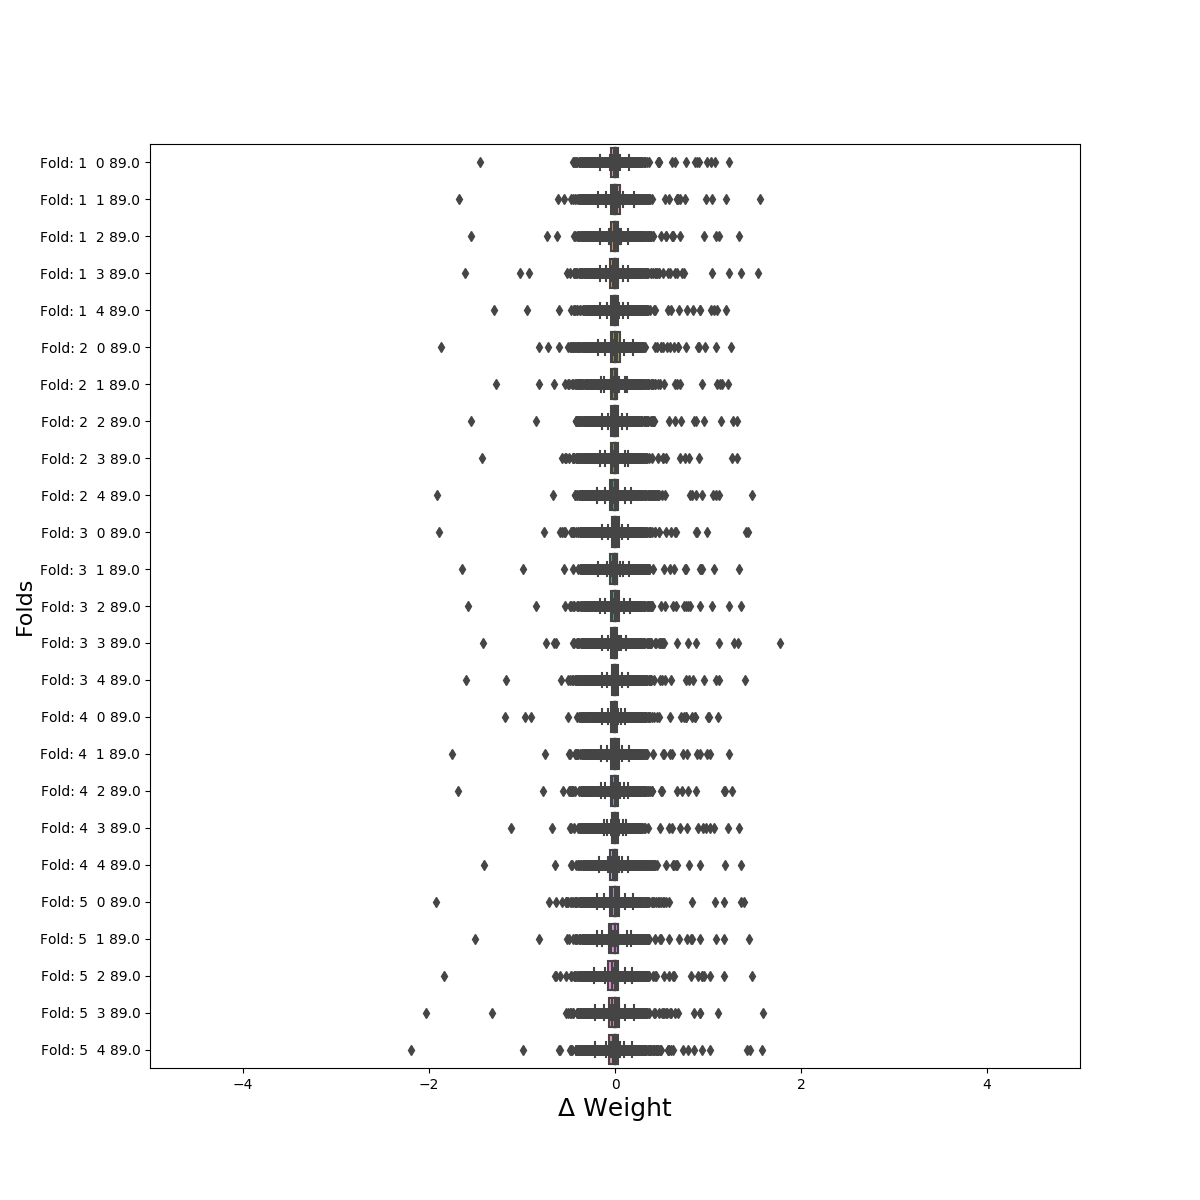
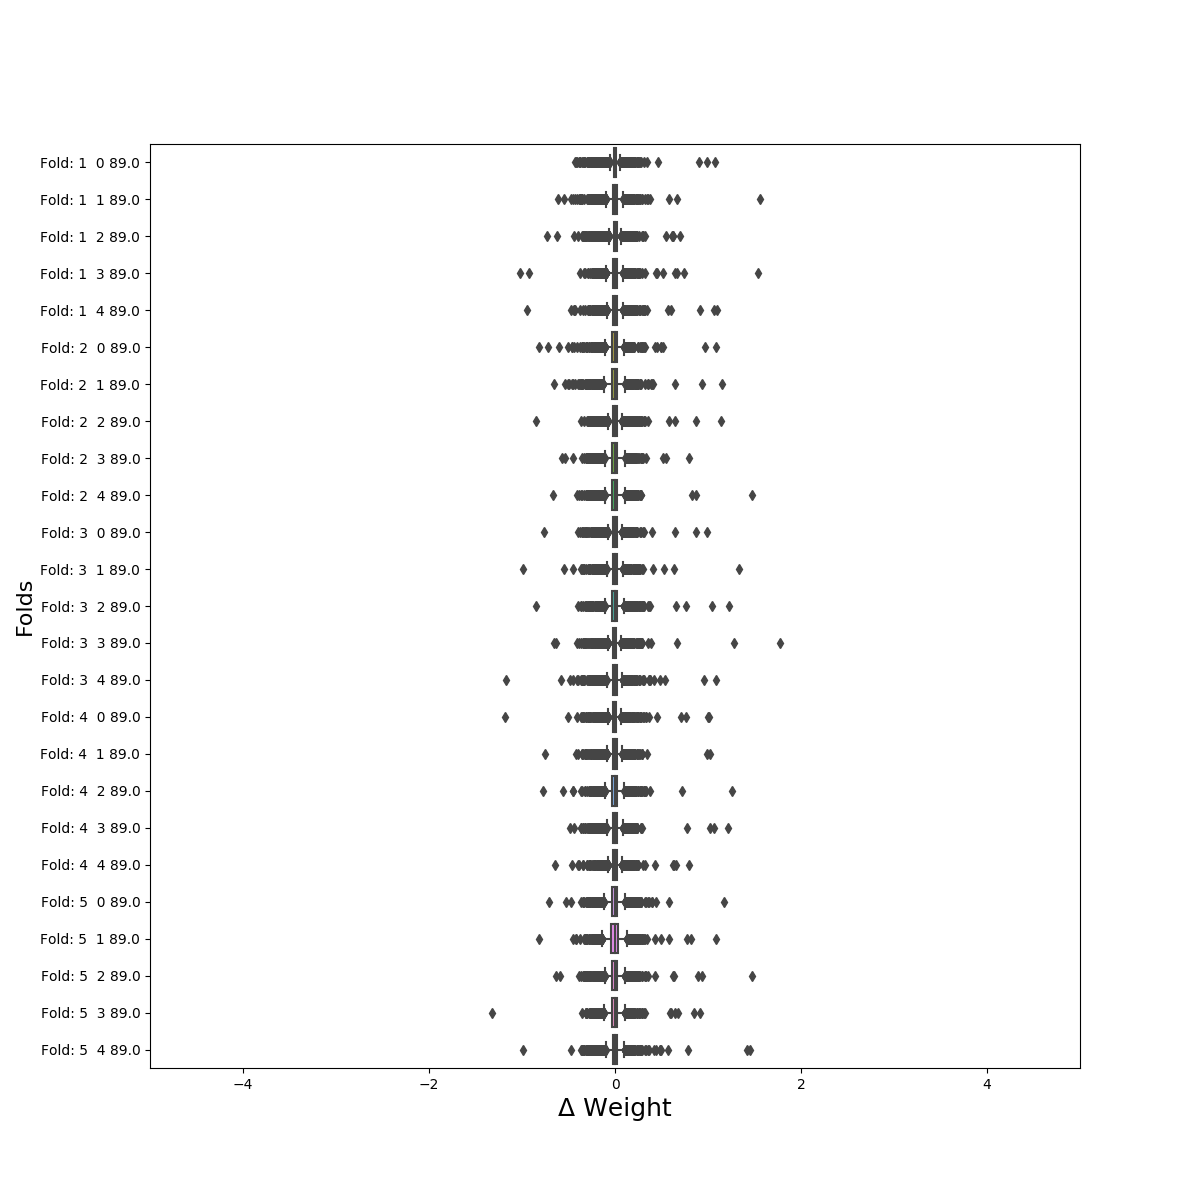
added some graphs updated the way some of them are drawn

diff --git a/bank/bank_comparison.py b/bank/bank_comparison.py
@@ -38,7 +38,6 @@ preprocess = make_column_transformer(
 dataframe = preprocess.fit_transform(features)
 
 def weight_delta(size, main):
-    global num_param
     ans = []
     column_names = []
     for split in range(1,6):
@@ -77,7 +76,7 @@ def weight_delta(size, main):
 
 
     dt = pandas.DataFrame(ans, index=column_names)
-    print(dt, column_names)
+    print(dt)
     return dt.T
 
 def create_figures(size, init):
@@ -102,10 +101,11 @@ def create_figures(size, init):
     sns.boxplot(data=results, whis=1.5, orient='h')
     plt.xticks()
     f.savefig('/home/jstigter/PycharmProjects/ap-research/bank/graphs/boxplot/'+size+'.'+init+'_box.png')
+    f.clear()
 
     f2 = plt.figure(2, figsize=a4_dims)
 
-    plt.xlim([-5,5])
+    plt.xlim([-3,3])
     plt.ylim([0,1])
 
     plt.xlabel('Δ Weight', fontsize=18)
@@ -116,6 +116,7 @@ def create_figures(size, init):
     plt.hist(combined_data, weights=np.zeros_like(np.array(combined_data)) + 1. / len(combined_data), bins=30, edgecolor='black')
 
     f2.savefig('/home/jstigter/PycharmProjects/ap-research/bank/graphs/histogram/'+size+'.'+init+'_hist.png')
+    f2.clear()
 
 create_figures('large', 'he')
 create_figures('large', 'rand_sig')

diff --git a/iris/iris_comparison.py b/iris/iris_comparison.py
@@ -106,10 +106,11 @@ def create_figures(size, init):
     sns.boxplot(data=results, whis=1.5, orient='h')
     plt.xticks()
     f.savefig('/home/jstigter/PycharmProjects/ap-research/iris/graphs/boxplot/'+size+'.'+init+'_box.png')
+    f.clear()
 
     f2 = plt.figure(2, figsize=a4_dims)
 
-    plt.xlim([-5,5])
+    plt.xlim([-3,3])
     plt.ylim([0,1])
 
     plt.xlabel('Δ Weight', fontsize=18)
@@ -120,6 +121,7 @@ def create_figures(size, init):
     plt.hist(combined_data, weights=np.zeros_like(np.array(combined_data)) + 1. / len(combined_data), bins=30, edgecolor='black')
 
     f2.savefig('/home/jstigter/PycharmProjects/ap-research/iris/graphs/histogram/'+size+'.'+init+'_hist.png')
+    f2.clear()
 
 create_figures('large', 'rand_relu')
 create_figures('large', 'he')

diff --git a/titanic/titanic_comparison.py b/titanic/titanic_comparison.py
@@ -101,10 +101,11 @@ def create_figures(size, init):
     sns.boxplot(data=results, whis=1.5, orient='h')
     plt.xticks()
     f.savefig('/home/jstigter/PycharmProjects/ap-research/titanic/graphs/boxplot'+size+'.'+init+'_box.png')
+    f.clear()
 
     f2 = plt.figure(2, figsize=a4_dims)
 
-    plt.xlim([-5,5])
+    plt.xlim([-3,3])
     plt.ylim([0,1])
 
     plt.xlabel('Δ Weight', fontsize=18)
@@ -116,6 +117,7 @@ def create_figures(size, init):
 
     f2.show()
     f2.savefig('/home/jstigter/PycharmProjects/ap-research/titanic/graphs/histogram/'+size+'.'+init+'_hist.png')
+    f2.clear()
 
 create_figures('large', 'he')
 create_figures('large', 'rand_sig')

diff --git a/iris/iris_wd.py b/iris/iris_wd.py
@@ -103,12 +103,13 @@ def create_figures(size, init):
     plt.xticks()
     f.show()
     f.savefig('/home/jstigter/PycharmProjects/ap-research/iris/graphs/after_box/'+size+'.'+init+'_box.png')
+    f.clear()
 
     f2 = plt.figure(2, figsize=a4_dims)
 
     combined_data = results.values.flatten()
 
-    plt.xlim([-5,5])
+    plt.xlim([-3,3])
     plt.ylim([0,len(combined_data)])
 
 
@@ -120,6 +121,7 @@ def create_figures(size, init):
 
     f2.show()
     f2.savefig('/home/jstigter/PycharmProjects/ap-research/iris/graphs/after_hist/'+size+'.'+init+'_hist.png')
+    f2.clear()
 
 create_figures('large', 'rand_relu')
 create_figures('large', 'he')

diff --git a/bank/bank_wd.py b/bank/bank_wd.py
@@ -101,12 +101,13 @@ def create_figures(size, init):
     plt.xticks()
     f.show()
     f.savefig('/home/jstigter/PycharmProjects/ap-research/bank/graphs/after_box/'+size+'.'+init+'_box.png')
+    f.clear()
 
     f2 = plt.figure(2, figsize=a4_dims)
 
     combined_data = results.values.flatten()
 
-    plt.xlim([-5,5])
+    plt.xlim([-3,3])
     plt.ylim([0,len(combined_data)])
 
 
@@ -118,6 +119,7 @@ def create_figures(size, init):
 
     f2.show()
     f2.savefig('/home/jstigter/PycharmProjects/ap-research/bank/graphs/after_hist/'+size+'.'+init+'_hist.png')
+    f2.clear()
 
 create_figures('large', 'he')
 create_figures('large', 'rand_sig')
